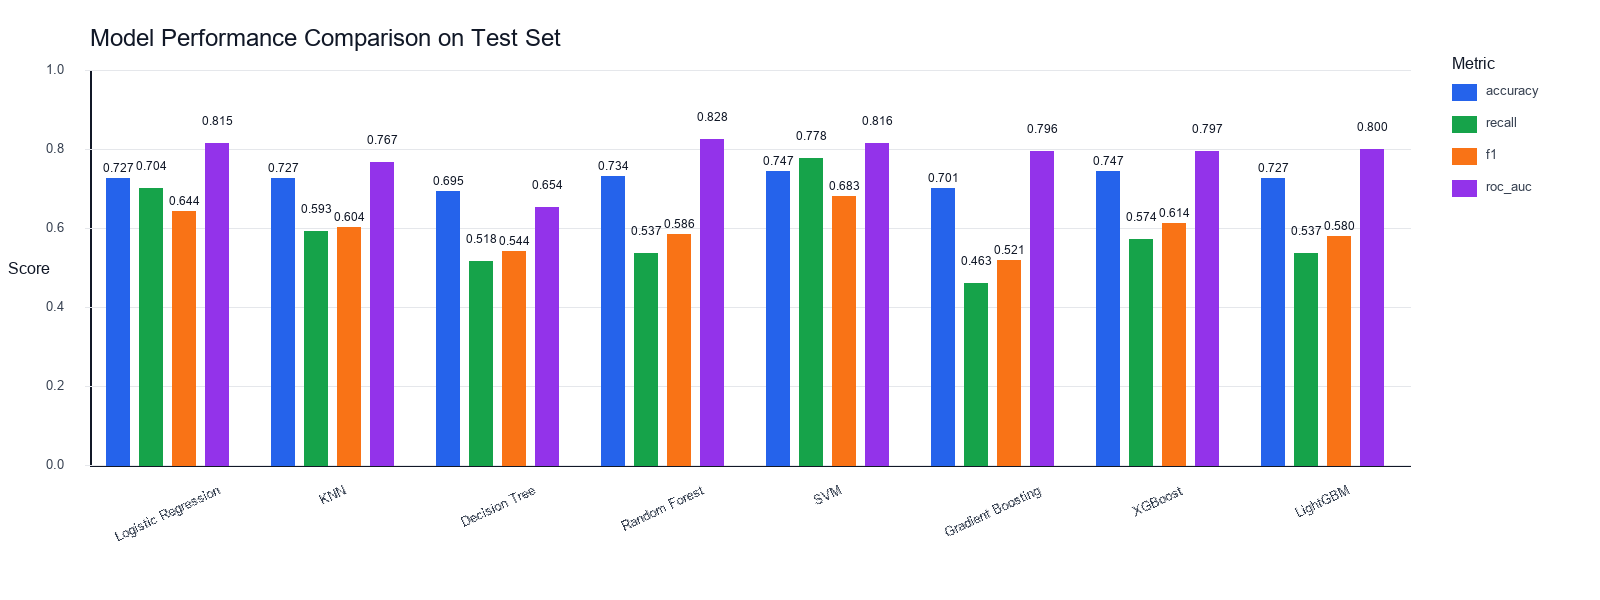
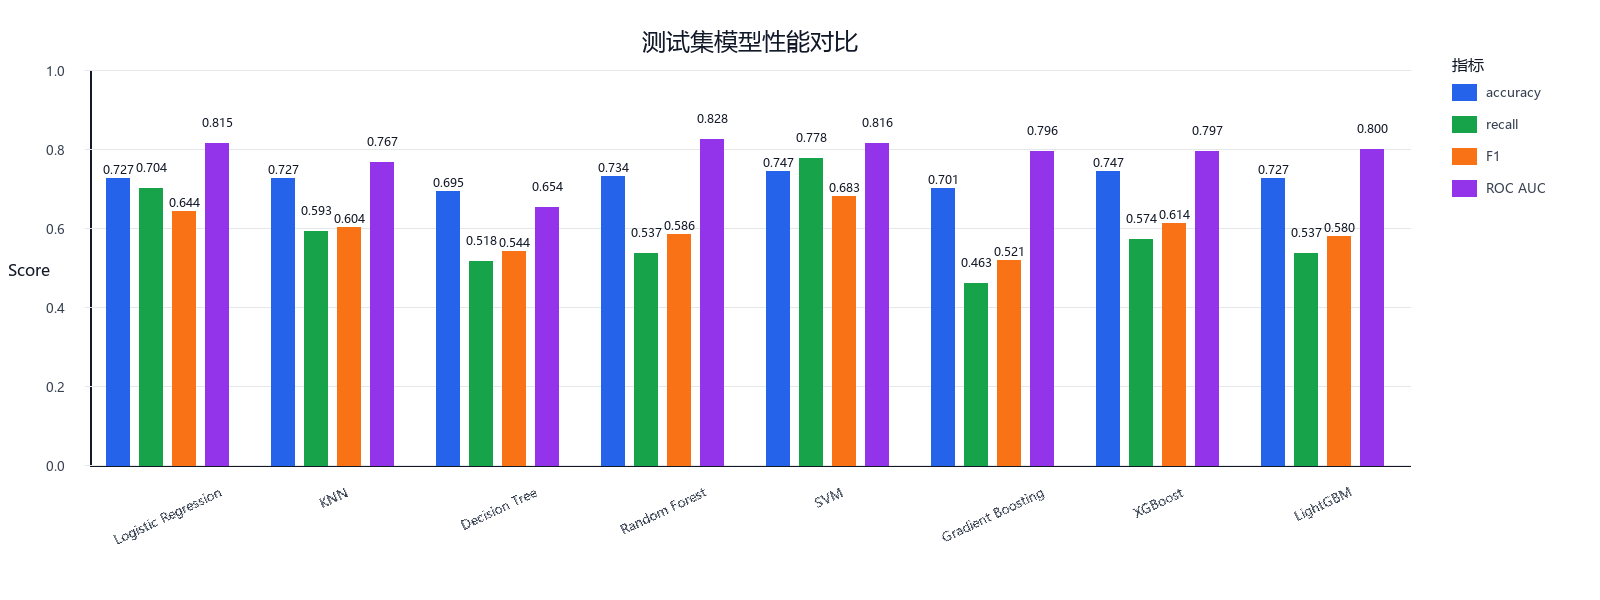
feat: 完成成员B多模型训练与模型对比模块

diff --git a/src/compare_models.py b/src/compare_models.py
@@ -15,6 +15,12 @@ from PIL import Image, ImageDraw, ImageFont
 RESULT_FILENAME = "model_comparison_result.csv"
 FIGURE_FILENAME = "model_comparison.png"
 PLOT_METRICS = ["accuracy", "recall", "f1", "roc_auc"]
+METRIC_LABELS = {
+    "accuracy": "accuracy",
+    "recall": "recall",
+    "f1": "F1",
+    "roc_auc": "ROC AUC",
+}
 
 
 def get_project_root() -> Path:
@@ -57,12 +63,17 @@ def plot_model_comparison(results_df: pd.DataFrame) -> None:
     image = Image.new("RGB", (width, height), "white")
     draw = ImageDraw.Draw(image)
 
-    try:
-        title_font = ImageFont.truetype("arial.ttf", 24)
-        label_font = ImageFont.truetype("arial.ttf", 16)
-        tick_font = ImageFont.truetype("arial.ttf", 13)
-        value_font = ImageFont.truetype("arial.ttf", 12)
-    except OSError:
+    font_candidates = ["msyh.ttc", "simhei.ttf", "arial.ttf"]
+    for font_name in font_candidates:
+        try:
+            title_font = ImageFont.truetype(font_name, 24)
+            label_font = ImageFont.truetype(font_name, 16)
+            tick_font = ImageFont.truetype(font_name, 13)
+            value_font = ImageFont.truetype(font_name, 12)
+            break
+        except OSError:
+            continue
+    else:
         title_font = label_font = tick_font = value_font = ImageFont.load_default()
 
     colors = {
@@ -72,7 +83,10 @@ def plot_model_comparison(results_df: pd.DataFrame) -> None:
         "roc_auc": "#9333ea",
     }
 
-    draw.text((left, 24), "Model Performance Comparison on Test Set", fill="#111827", font=title_font)
+    title = "测试集模型性能对比"
+    title_box = draw.textbbox((0, 0), title, font=title_font)
+    title_x = left + (chart_width - (title_box[2] - title_box[0])) // 2
+    draw.text((title_x, 24), title, fill="#111827", font=title_font)
     draw.line((left, top, left, axis_bottom), fill="#111827", width=2)
     draw.line((left, axis_bottom, left + chart_width, axis_bottom), fill="#111827", width=2)
     draw.text((8, top + chart_height // 2 - 8), "Score", fill="#111827", font=label_font)
@@ -117,11 +131,11 @@ def plot_model_comparison(results_df: pd.DataFrame) -> None:
 
     legend_x = left + chart_width + 42
     legend_y = top + 14
-    draw.text((legend_x, legend_y - 30), "Metric", fill="#111827", font=label_font)
+    draw.text((legend_x, legend_y - 30), "指标", fill="#111827", font=label_font)
     for index, metric in enumerate(PLOT_METRICS):
         y_pos = legend_y + index * 32
         draw.rectangle((legend_x, y_pos, legend_x + 24, y_pos + 16), fill=colors[metric])
-        draw.text((legend_x + 34, y_pos - 1), metric, fill="#374151", font=tick_font)
+        draw.text((legend_x + 34, y_pos - 1), METRIC_LABELS[metric], fill="#374151", font=tick_font)
 
     figure_path = get_project_root() / "figures" / FIGURE_FILENAME
     figure_path.parent.mkdir(parents=True, exist_ok=True)

diff --git a/README.md b/README.md
@@ -36,7 +36,14 @@ pip install -r requirements.txt
 检查环境：
 
 ```bash
-python -c "import gradio, pandas, sklearn, joblib; print('ok')"
+python -c "import gradio, pandas, sklearn, joblib, xgboost, lightgbm; print('ok')"
+```
+
+运行成员 B 多模型训练与对比：
+
+```bash
+python src/train_models.py
+python src/compare_models.py
 ```
 
 ## 当前进度
@@ -45,7 +52,7 @@ python -c "import gradio, pandas, sklearn, joblib; print('ok')"
 | --- | --- | --- | --- |
 | 数据理解与预处理 | 已完成 baseline 阶段 | 清洗数据、标准化数据、训练/验证/测试集、数据图表 | 后续成员沿用统一 split |
 | 基准模型 | 已完成 | Logistic Regression baseline、baseline 指标、特征影响排序 | 作为后续模型对比基准 |
-| 多模型训练与对比 | 待完成 | 暂无 | 训练 KNN、Decision Tree、Random Forest、SVM 等 |
+| 多模型训练与对比 | 已完成 | 多模型训练脚本、候选模型字典、模型对比结果表、test 集对比图、B 模块交付说明 | 后续成员 C 重点调参 SVM 和 Random Forest |
 | 调参与最终评估 | 待完成 | 暂无 | 调参、绘制 ROC/混淆矩阵、保存最终模型 |
 | 系统 Demo 与工程整合 | 已接入 baseline | Gradio 页面、预测接口、baseline 模型加载 | 等待 `models/best_model.pkl` 后自动切换最终模型 |
 
@@ -61,23 +68,28 @@ ML_Diagnosis_Project/
 |   |-- val_processed.csv         # 验证集
 |   |-- test_processed.csv        # 测试集
 |-- figures/                      # 图表与系统截图
+|   |-- model_comparison.png       # 成员 B 输出的 test 集模型性能对比图
 |-- models/                       # 预处理工具与模型文件
 |   |-- imputer.pkl
 |   |-- iqr_bounds.pkl
 |   |-- scaler.pkl
 |   |-- baseline_logistic_regression.pkl
-|   |-- best_model.pkl            # 最终模型，后续由调参评估阶段产出
+|   |-- trained_models.pkl        # 成员 B 训练得到的候选模型字典
+|   |-- best_model.pkl            # 最终模型，当前尚未生成，后续由成员 C 产出
 |-- report/                       # 报告、PPT、展示说明材料
 |-- src/                          # 源代码
 |   |-- data_analysis.py          # 数据探索分析与图表
 |   |-- data_process.py           # 数据清洗、划分、标准化
 |   |-- baseline_model.py         # 基准模型训练与结果输出
+|   |-- train_models.py           # 成员 B 多模型训练与结果输出
+|   |-- compare_models.py         # 成员 B 模型对比图生成
 |   |-- app.py                    # Gradio 系统 Demo 入口
 |   |-- config.py                 # 路径、字段、模型文件配置
 |   |-- predict.py                # 预测流程与模型加载
 |-- baseline_result.csv           # 基准模型指标
 |-- baseline_prediction_details.csv
 |-- baseline_feature_importance.csv
+|-- model_comparison_result.csv   # 成员 B 模型对比结果表
 |-- environment.yml
 |-- requirements.txt
 |-- README.md
@@ -142,6 +154,7 @@ figures/class_distribution.png
 figures/feature_distribution.png
 figures/correlation_heatmap.png
 figures/baseline_feature_importance.png
+figures/model_comparison.png
 ```
 
 模型与预处理工具：
@@ -151,6 +164,7 @@ models/imputer.pkl
 models/iqr_bounds.pkl
 models/scaler.pkl
 models/baseline_logistic_regression.pkl
+models/trained_models.pkl
 ```
 
 结果表：
@@ -159,6 +173,17 @@ models/baseline_logistic_regression.pkl
 baseline_result.csv
 baseline_prediction_details.csv
 baseline_feature_importance.csv
+model_comparison_result.csv
+```
+
+成员 B 产物：
+
+```text
+src/train_models.py
+src/compare_models.py
+model_comparison_result.csv
+models/trained_models.pkl
+figures/model_comparison.png
 ```
 
 当前 baseline 指标：
@@ -172,7 +197,7 @@ baseline_feature_importance.csv
 
 ### 多模型训练与对比
 
-建议直接读取：
+该模块已完成。成员 B 直接读取：
 
 ```text
 data/train_processed.csv
@@ -181,20 +206,15 @@ data/test_processed.csv
 baseline_result.csv
 ```
 
-建议完成：
+已完成：
 
-- 训练 KNN、Decision Tree、Random Forest、SVM 等模型
 - 使用相同 train/val/test 划分与 baseline 对比
-- 输出模型对比结果表
-- 绘制模型性能对比图
+- 训练 Logistic Regression baseline、KNN、Decision Tree、Random Forest、SVM、Gradient Boosting、XGBoost、LightGBM
+- 输出模型对比结果表 `model_comparison_result.csv`
+- 保存候选模型字典 `models/trained_models.pkl`
+- 绘制模型性能对比图 `figures/model_comparison.png`
 
-建议新增或维护：
-
-```text
-src/train_models.py
-figures/model_comparison.png
-report/model_comparison.md
-```
+当前结果显示，SVM 在 test 集 recall 和 F1 上最好，Random Forest 在 test 集 ROC AUC 上最好。后续建议成员 C 重点调参 SVM 和 Random Forest；XGBoost / LightGBM 可作为备选增强模型。
 
 ### 调参与最终评估
 
@@ -341,7 +361,7 @@ feature/app
 
 ```bash
 python -c "import pandas as pd; df = pd.read_csv('data/diabetes.csv'); print(df.shape)"
-python -c "import gradio, pandas, sklearn, joblib; print('ok')"
+python -c "import gradio, pandas, sklearn, joblib, xgboost, lightgbm; print('ok')"
 python src/app.py
 ```
 

diff --git a/B_MODULE_HANDOFF.md b/B_MODULE_HANDOFF.md
@@ -27,7 +27,31 @@
 - 本模块没有重新划分数据集；
 - 这样保证 B 的模型结果可以和 A 的 Logistic Regression baseline 公平比较。
 
-## 3. 主要代码文件
+## 3. 环境依赖说明
+
+增强版额外依赖：
+
+- `xgboost`
+- `lightgbm`
+
+当前验证版本：
+
+- xgboost 3.2.0
+- lightgbm 4.6.0
+
+如果环境缺少依赖，可以运行：
+
+```bash
+pip install -r requirements.txt
+```
+
+或：
+
+```bash
+conda env update -f environment.yml
+```
+
+## 4. 主要代码文件
 
 - `src/train_models.py`
 
@@ -37,7 +61,7 @@
 
   用于读取 `model_comparison_result.csv`，并生成 `figures/model_comparison.png`。
 
-## 4. 输出文件说明
+## 5. 输出文件说明
 
 - `model_comparison_result.csv`
 
@@ -46,6 +70,8 @@
 - `models/trained_models.pkl`
 
   保存 B 训练得到的候选模型字典，包含 KNN、Decision Tree、Random Forest、SVM、Gradient Boosting、XGBoost、LightGBM。
+  该文件只保存成员 B 训练的 7 个候选模型，不包含 A 的 Logistic Regression baseline。
+  Logistic Regression baseline 只通过 `baseline_result.csv` 合并进 `model_comparison_result.csv`。
 
 - `figures/model_comparison.png`
 
@@ -56,7 +82,7 @@
 - 本模块没有生成 `models/best_model.pkl`。
 - `models/best_model.pkl` 应由成员 C 在调参和最终模型选择后生成。
 
-## 5. 运行方式
+## 6. 运行方式
 
 运行顺序如下：
 
@@ -70,7 +96,7 @@ python src/compare_models.py
 - 先运行 `train_models.py`，生成模型结果和候选模型；
 - 再运行 `compare_models.py`，生成模型对比图。
 
-## 6. 当前模型结果摘要
+## 7. 当前模型结果摘要
 
 根据当前 `model_comparison_result.csv`：
 
@@ -100,12 +126,13 @@ python src/compare_models.py
 | LightGBM | validation | 0.7724 | 0.6923 | 0.6279 | 0.6585 | 0.8308 |
 | LightGBM | test | 0.7273 | 0.6304 | 0.5370 | 0.5800 | 0.8002 |
 
-## 7. 结果分析与给成员 C 的建议
+## 8. 结果分析与给成员 C 的建议
 
 从当前结果看，SVM 在 test 集上的 recall 和 f1 表现最好，适合作为后续重点调参候选模型。Random Forest 的 roc_auc 最高，说明其整体区分正负样本能力较好，也适合后续调参。XGBoost 的 test 集 accuracy 与 SVM 持平，但 recall 和 f1 低于 SVM；LightGBM 当前表现中等，Gradient Boosting 默认参数下表现相对较弱。Logistic Regression baseline 表现稳定，可以作为重要基准。Decision Tree 默认参数下表现相对较弱，不建议作为主要优化对象。
 
 给成员 C 的建议：
 
+- 当前调参优先级建议为：1. SVM；2. Random Forest；3. XGBoost / LightGBM 作为备选增强模型；
 - 重点调参 SVM 和 Random Forest；
 - 如果后续 XGBoost 或 LightGBM 在调参后表现提升，也可以作为成员 C 的候选模型；
 - SVM 可调参数包括 `C`、`kernel`、`gamma`、`class_weight`；
@@ -115,7 +142,7 @@ python src/compare_models.py
 - 糖尿病风险预测任务更关注 recall 和 f1，因为漏判高风险样本的代价更高；
 - 后续可以进一步结合 GridSearchCV / RandomizedSearchCV 和阈值调整。
 
-## 8. 注意事项
+## 9. 注意事项
 
 - 不要重新划分数据集；
 - 不要覆盖 A 的数据处理产物；
